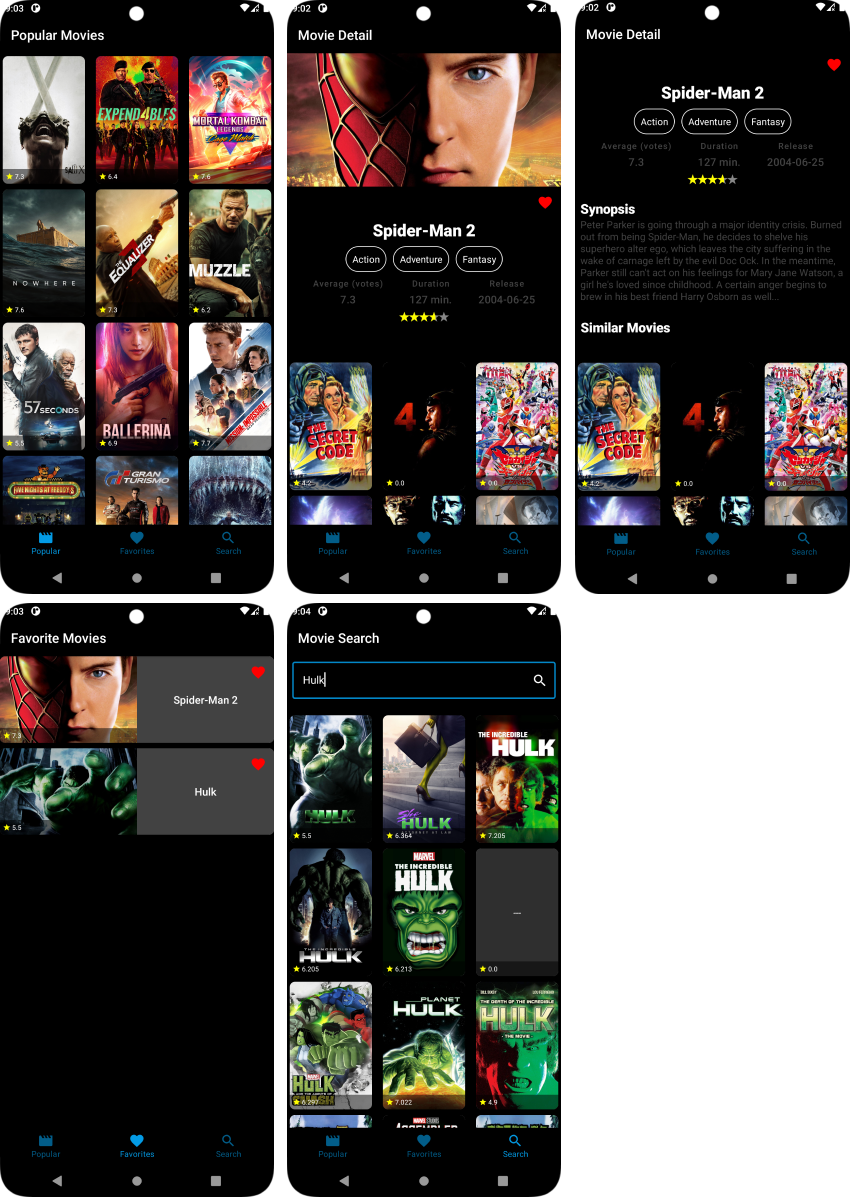
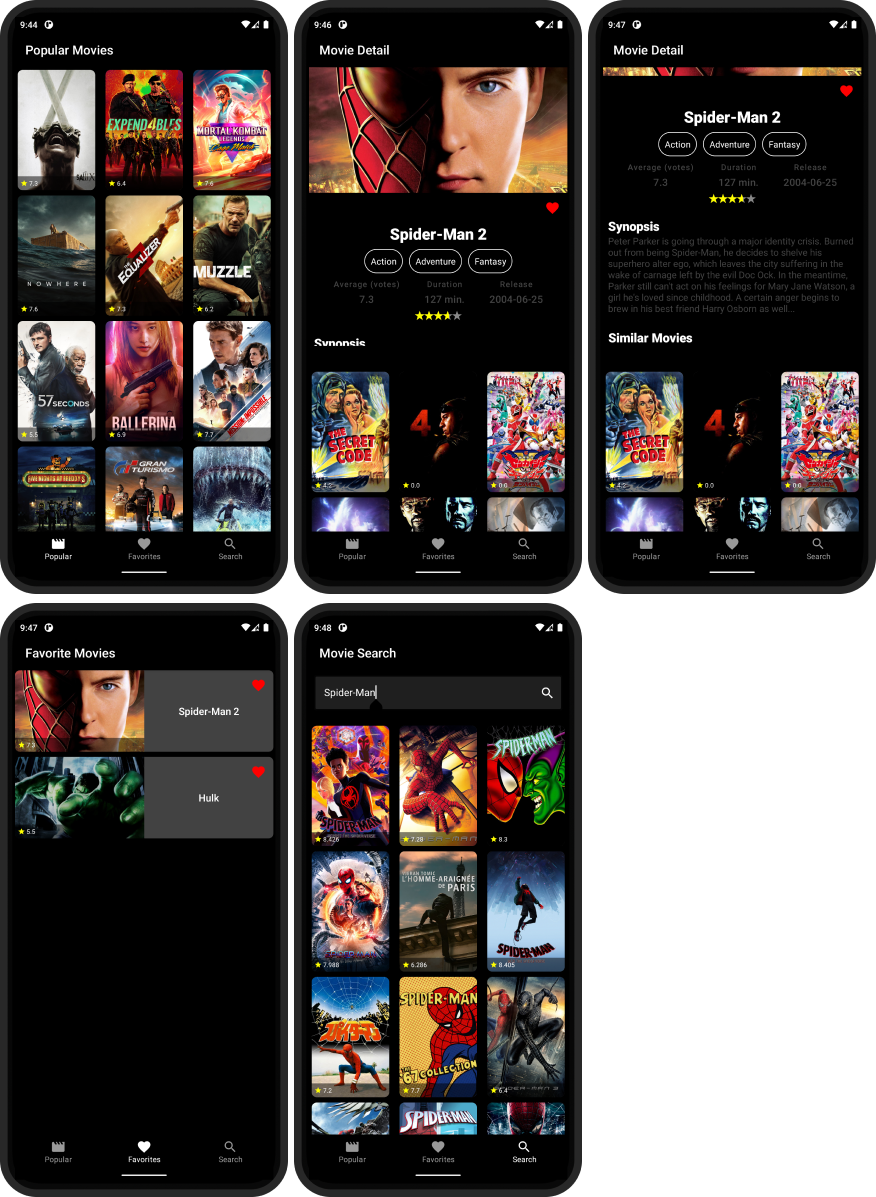
Changed: Update theme color

diff --git a/app/src/main/java/com/fappslab/tmdbcompose/features/detail/presentation/component/BackdropView.kt b/app/src/main/java/com/fappslab/tmdbcompose/features/detail/presentation/component/BackdropView.kt
@@ -25,7 +25,7 @@ import coil.compose.AsyncImage
 import coil.request.ImageRequest
 import com.fappslab.tmdbcompose.core.presentaion.component.preview.detailDataPreview
 import com.fappslab.tmdbcompose.features.detail.presentation.viewmodel.DetailViewState
-import com.fappslab.tmdbcompose.ui.theme.blue
+import com.fappslab.tmdbcompose.ui.theme.red
 
 @Composable
 fun BackdropView(
@@ -57,7 +57,7 @@ fun BackdropView(
         if (state.shouldShowLoading) {
             CircularProgressIndicator(
                 modifier = Modifier.align(Alignment.Center),
-                color = blue
+                color = red
             )
         }
         if (state.errorMessage.isNotBlank()) {

diff --git a/app/src/main/java/com/fappslab/tmdbcompose/core/presentaion/navigation/BottomNavigationBar.kt b/app/src/main/java/com/fappslab/tmdbcompose/core/presentaion/navigation/BottomNavigationBar.kt
@@ -12,7 +12,7 @@ import androidx.navigation.NavController
 import androidx.navigation.compose.currentBackStackEntryAsState
 import androidx.navigation.compose.rememberNavController
 import com.fappslab.tmdbcompose.ui.theme.black
-import com.fappslab.tmdbcompose.ui.theme.blue
+import com.fappslab.tmdbcompose.ui.theme.white
 
 @Composable
 fun BottomNavigationBar(
@@ -26,7 +26,7 @@ fun BottomNavigationBar(
     )
 
     BottomNavigation(
-        contentColor = blue,
+        contentColor = white,
         backgroundColor = black
     ) {
         val navBackStackEntry by navController.currentBackStackEntryAsState()

diff --git a/app/src/main/java/com/fappslab/tmdbcompose/core/presentaion/component/LoadingView.kt b/app/src/main/java/com/fappslab/tmdbcompose/core/presentaion/component/LoadingView.kt
@@ -11,7 +11,7 @@ import androidx.compose.ui.Alignment
 import androidx.compose.ui.Modifier
 import androidx.compose.ui.tooling.preview.Preview
 import androidx.compose.ui.unit.dp
-import com.fappslab.tmdbcompose.ui.theme.blue
+import com.fappslab.tmdbcompose.ui.theme.red
 
 @Composable
 fun LoadingView(
@@ -26,7 +26,7 @@ fun LoadingView(
     ) {
         CircularProgressIndicator(
             modifier = Modifier.size(40.dp),
-            color = blue
+            color = red
         )
     }
 }

diff --git a/app/src/main/java/com/fappslab/tmdbcompose/ui/theme/Color.kt b/app/src/main/java/com/fappslab/tmdbcompose/ui/theme/Color.kt
@@ -7,5 +7,5 @@ val BlueSecondary = Color(0xFF039BE5)
 val BlackSecondary = Color(0xFF000000)
 
 val black = Color(0xFF000000)
-val blue = Color(0xFF039BE5)
+val red = Color(0xFFF4511E)
 val white = Color(0xFFFFFFFF)
